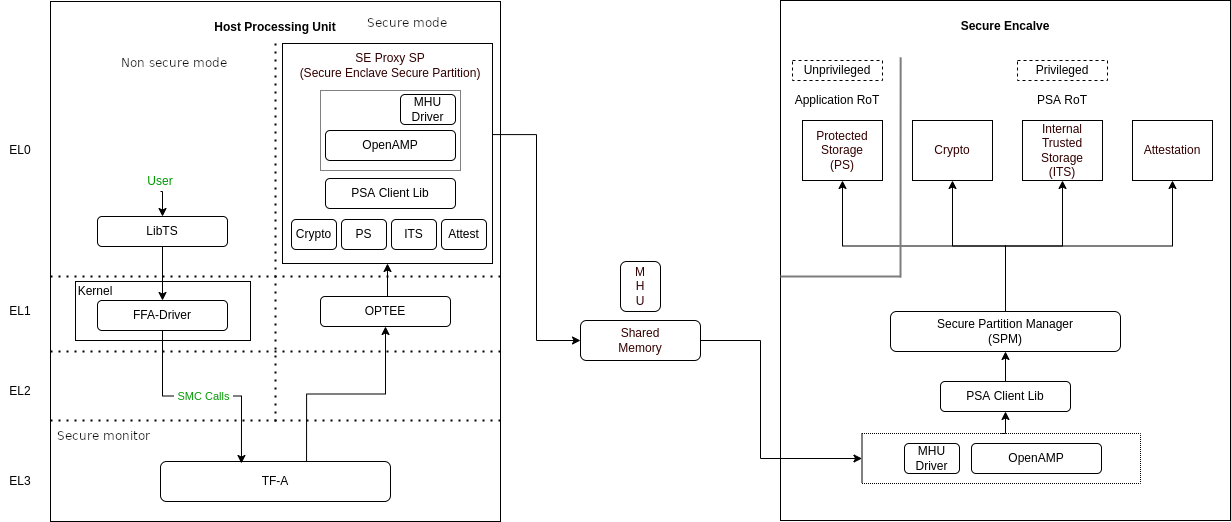
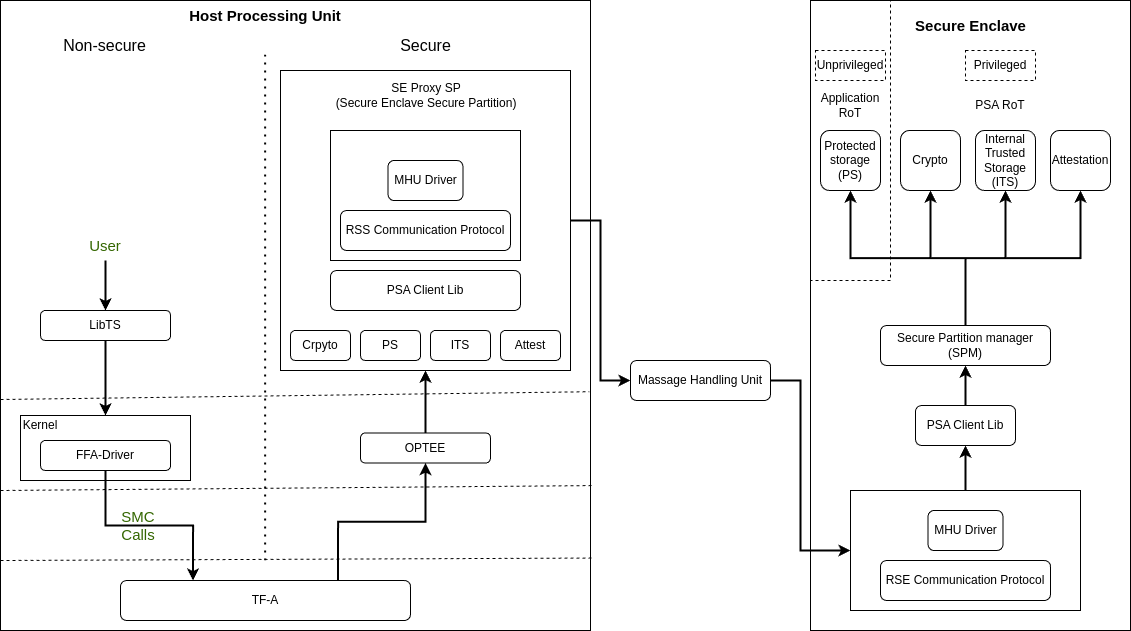
arm-bsp/doc: corstone1000: update A+M communication
The OpenAMP is replaced by the RSE Communication Protocol and
the documentation had to by updated to reflect this change.

diff --git a/meta-arm-bsp/documentation/corstone1000/software-architecture.rst b/meta-arm-bsp/documentation/corstone1000/software-architecture.rst
@@ -53,7 +53,7 @@ hardware for enhanced security. Communication with the Secure Encalve
 is achieved using Message Handling Units (MHUs) and shared memory.
 On system power on, the Secure Enclave boots first. Its software
 comprises of a  ROM code (TF-M BL1), Mcuboot BL2, and
-TrustedFirmware-M(`TF-M`_) as runtime software. The software design on 
+TrustedFirmware-M(`TF-M`_) as runtime software. The software design on
 Secure Enclave follows Firmware Framework for M class
 processor (`FF-M`_) specification.
 
@@ -140,10 +140,13 @@ flow path for such calls.
 
 The SE Proxy SP (Secure Enclave Proxy Secure Partition) is a proxy partition
 managed by OPTEE which forwards such calls to the secure enclave. The
-solution relies on OpenAMP which uses shared memory and MHU interrupts as
-a doorbell for communication between two cores. Corstone-1000 implements
-isolation level 2. Cortex-M0+ MPU (Memory Protection Unit) is used to implement
-isolation level 2.
+solution relies on the `RSE communication protocol
+<https://tf-m-user-guide.trustedfirmware.org/platform/arm/rse/rse_comms.html>`_
+which is a lightweight serialization of the psa_call() API. It can use shared
+memory and MHU interrupts as a doorbell for communication between two cores
+but currently the whole message is forwarded through the MHU channels in Corstone-1000.
+Corstone-1000 implements isolation level 2. Cortex-M0+ MPU (Memory Protection
+Unit) is used to implement isolation level 2.
 
 For a user to define its own secure service, both the options of the host
 secure world or secure encalve are available. It's a trade-off between
